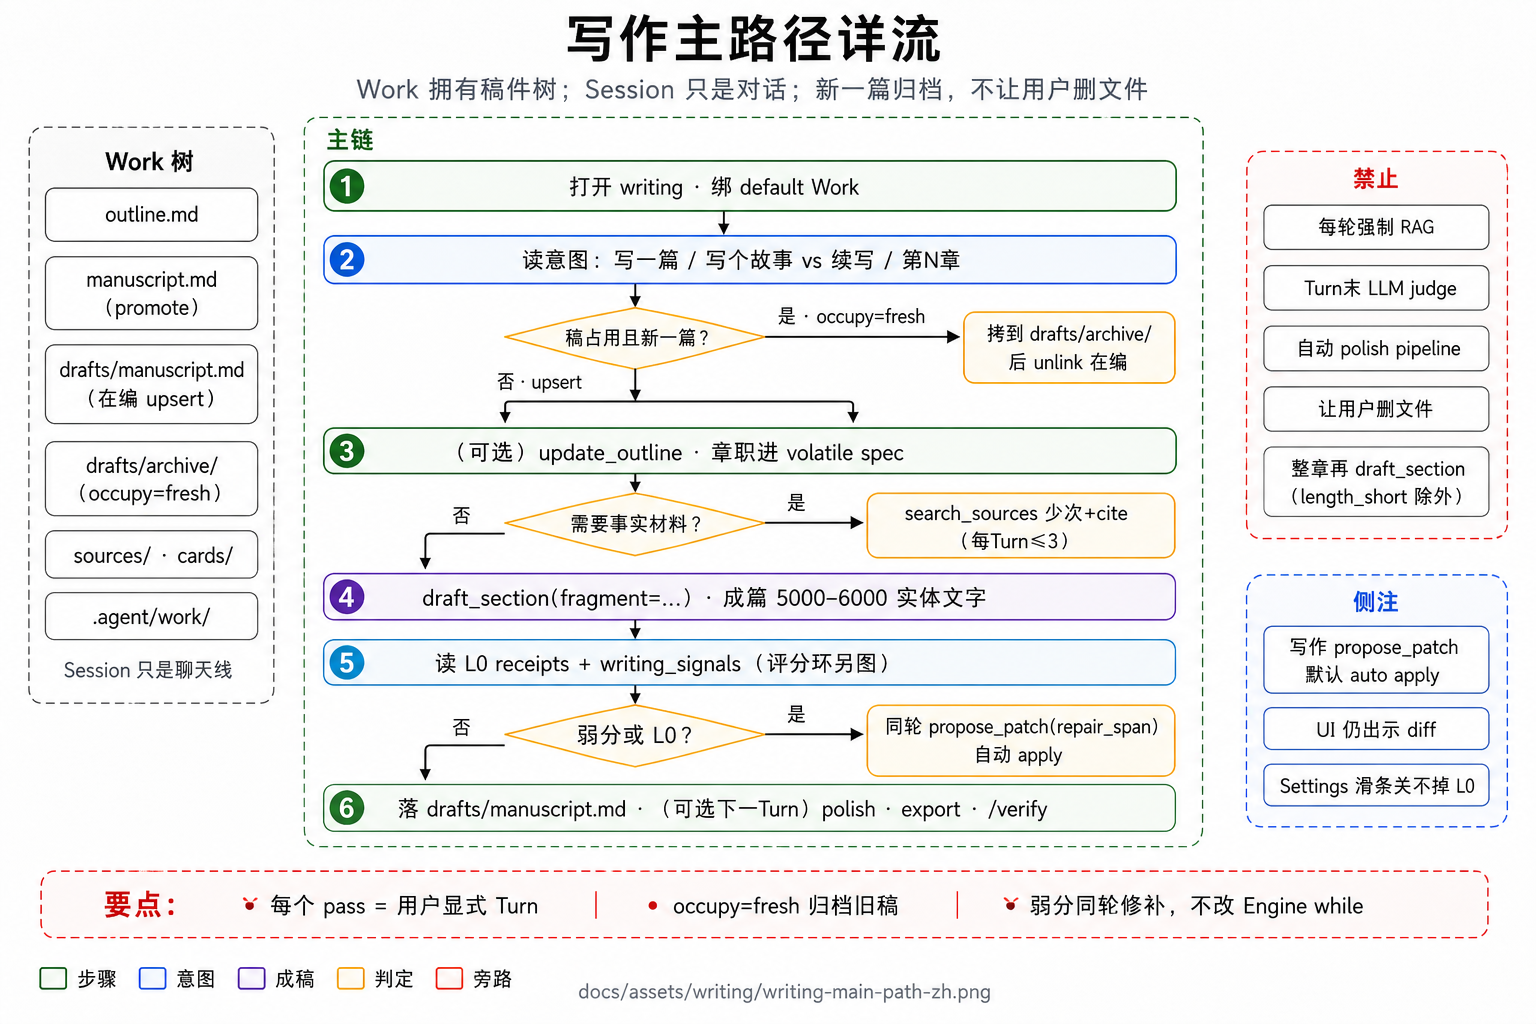
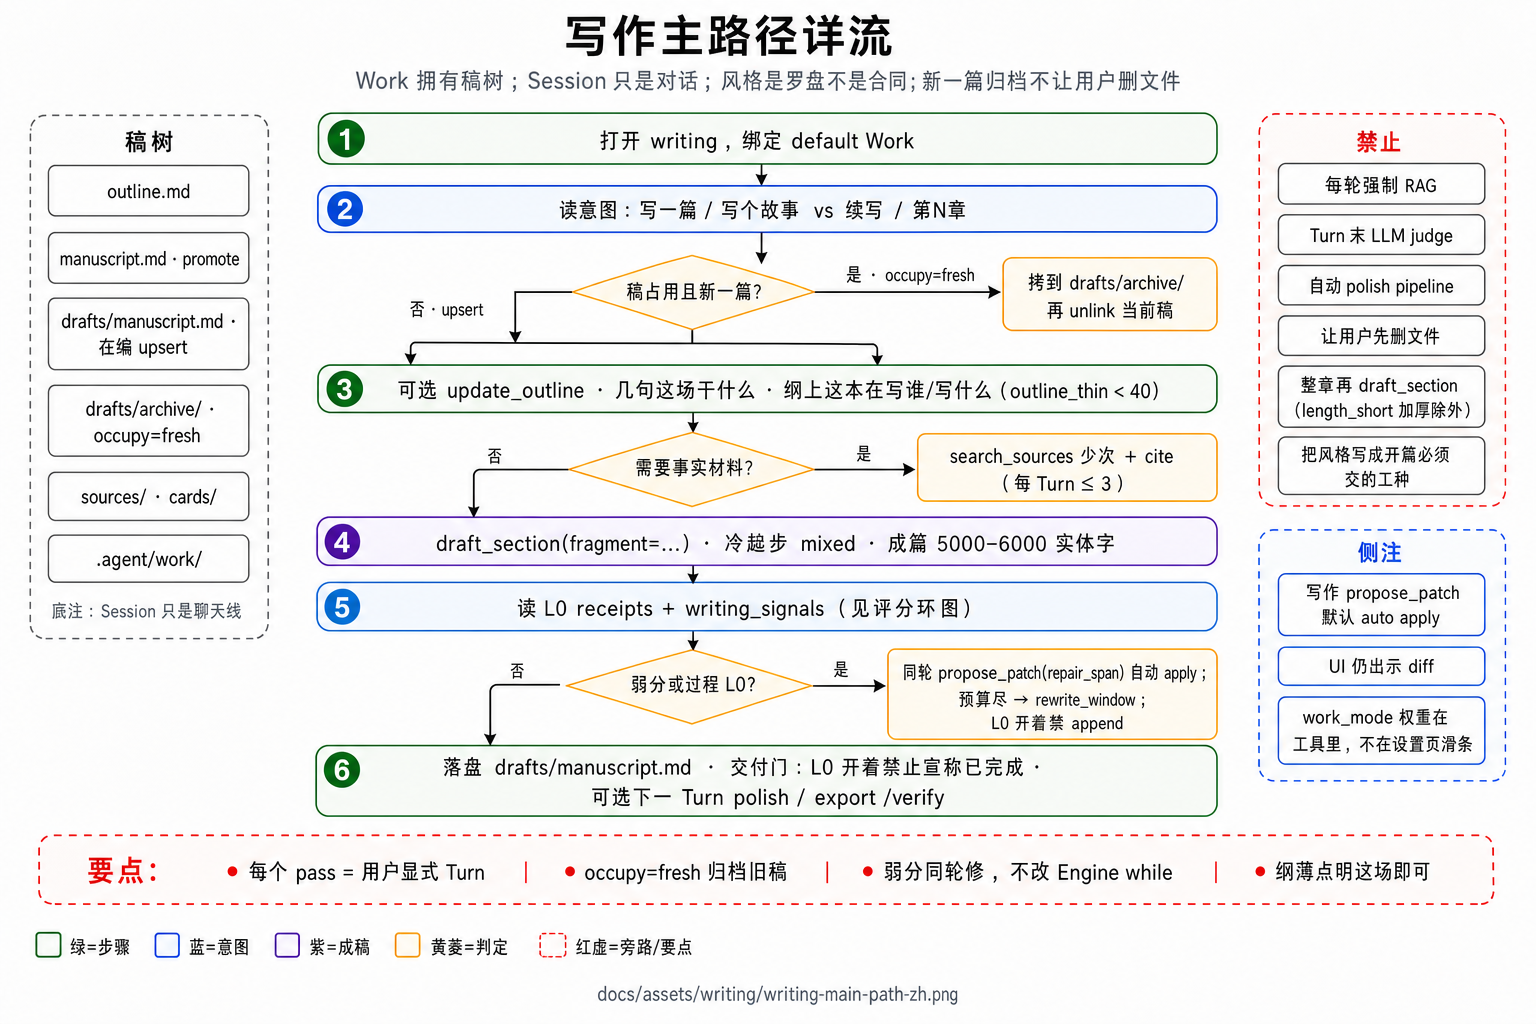
Refresh writing-harness docs and redraw the main-path and signals-loop diagrams.

Changed region(s): [[0.0, 0.0, 1.0, 1.0], [0.2812, 0.2812, 0.3125, 0.3125], [0.0, 0.1875, 0.0312, 0.2188]]

diff --git a/docs/tour/index.html b/docs/tour/index.html
@@ -1477,8 +1477,8 @@
             <li>
               <span class="n">1</span>
               <div>
-                <p class="what"><code>writing</code>（默认）：大纲、起草、<code>occupy=fresh</code> 归档、同轮 <code>writing_signals</code> 修补、按需 <code>search_sources</code></p>
-                <p class="why">步数上限约 40。默认排除情报语料目录。成篇默认 5000–6000 实体文字。质量杠杆是稳定前缀、少次有 cite 的检索、以及焊在工具返回值里的过程门；不是资料体积，也不是 Turn 末 LLM 裁判。每个 pass = 用户显式 Turn，平台不自动串 polish pipeline。</p>
+                <p class="what"><code>writing</code>（默认）：薄纲、起草、<code>occupy=fresh</code> 归档、同轮 <code>writing_signals</code> 修补（同岛停 · 预算尽换窗 · 交付门）、按需 <code>search_sources</code></p>
+                <p class="why">步数上限约 40。默认排除情报语料目录。成篇默认 5000–6000 实体文字。风格是罗盘不是合同。质量杠杆是稳定前缀、少次有 cite 的检索、以及焊在工具返回值里的过程门；不是资料体积，也不是 Turn 末 LLM 裁判。每个 pass = 用户显式 Turn，平台不自动串 polish pipeline。</p>
               </div>
             </li>
             <li>
@@ -2255,7 +2255,7 @@ payload[<span class="st">"audit"</span>] = finalize_audit_for_result(captured, h
       <section class="page" data-id="writing" data-group="RAG / 写作" data-title="写作工作台">
         <div class="card">
           <h2>写作：Work 拥有树；新一篇归档旧稿</h2>
-          <p class="lede">用户心智是一份稿。工程上 Work 拥有 <code>outline.md</code>、<code>drafts/manuscript.md</code>、<code>drafts/archive/</code>、<code>sources/</code> 与卡片；Session 只是对话线程。用户说「写一篇 / 写个故事」且在编稿已占用时，第一次 <code>draft_section</code> 带 <code>occupy=fresh</code>：把旧稿拷到归档，再只写这篇。不要让用户先删文件。每个 pass = 用户显式 Turn；平台不自动串成润色流水线。</p>
+          <p class="lede">用户心智是一份稿。工程上 Work 拥有 <code>outline.md</code>、<code>drafts/manuscript.md</code>、<code>drafts/archive/</code>、<code>sources/</code> 与卡片；Session 只是对话线程。用户说「写一篇 / 写个故事」且在编稿已占用时，第一次 <code>draft_section</code> 带 <code>occupy=fresh</code>：把旧稿拷到归档，再只写这篇。不要让用户先删文件。风格 / 三要素是这场戏的倾向，不是开篇必须交的工种。每个 pass = 用户显式 Turn；平台不自动串成润色流水线。</p>
           <ol class="steps">
             <li>
               <span class="n">1</span>
@@ -2267,26 +2267,26 @@ payload[<span class="st">"audit"</span>] = finalize_audit_for_result(captured, h
             <li>
               <span class="n">2</span>
               <div>
-                <p class="what">（可选）<code>update_outline</code>；立人设与文风靠 pin 在 Work 上的卡片</p>
-                <p class="why">通常不检索。卡片进入 <code>writing_cards</code>，不进资料向量面。章纲过薄（章正文 &lt; 200 实体文字，且用户未要目录）时带 <code>outline_thin</code>。</p>
+                <p class="what">（可选）<code>update_outline</code>：几句这场干什么；纲上写清这本在写谁、写什么</p>
+                <p class="why">通常不检索。卡片进入 <code>writing_cards</code>，不进资料向量面。章纲过薄（章正文 &lt; 40 实体文字，且用户未要目录）时带 <code>outline_thin</code>。开篇三章备忘按几句算完整。</p>
               </div>
             </li>
             <li>
               <span class="n">3</span>
               <div>
-                <p class="what">成稿：按需 <code>search_sources</code>（有 cite、每 Turn 最多 3 次）再 <code>draft_section(fragment=…)</code></p>
-                <p class="why">成篇默认 5000–6000 实体文字。返回值带 L0 receipts 与 L1 <code>writing_signals</code>。禁止每轮强制 RAG、禁止 Turn 末自动 judge。</p>
+                <p class="what">成稿：按需 <code>search_sources</code>（有 cite、每 Turn 最多 3 次）再 <code>draft_section(fragment=…)</code>；冷起步 <code>mixed</code></p>
+                <p class="why">成篇默认 5000–6000 实体文字。返回值带 L0 receipts 与 L1 <code>writing_signals</code>。禁止每轮强制 RAG、禁止 Turn 末自动 judge。过程 L0 未清不得 <code>mode=append</code>，也不得宣称已完成。</p>
               </div>
             </li>
             <li>
               <span class="n">4</span>
               <div>
                 <p class="what">弱分或 L0：同轮 <code>propose_patch(repair_span)</code>；写作场景默认自动 apply</p>
-                <p class="why">只换最弱窗里的 <code>old_text</code>，不整章再 <code>draft_section</code>（<code>length_short</code> 加厚除外）。UI 仍出示 diff。polish / 导出 / verify 仍是用户下一次 Turn。</p>
+                <p class="why">只换最弱窗里的 <code>old_text</code>（可带 <code>neighbor</code>）。同岛停；每 key 5 次 / 章合计 8；碎拍尽则 <code>rewrite_window</code>（每章 2 次）。不整章再 <code>draft_section</code>（<code>length_short</code> 加厚除外）。UI 仍出示 diff。polish / 导出 / verify 仍是用户下一次 Turn。</p>
               </div>
             </li>
           </ol>
-          <p class="figure-lead">下图中主链：意图 → 占用判定 → 成稿 → 同轮修补。检索是按需旁路。评分环见下一页。</p>
+          <p class="figure-lead">下图中主链：意图 → 占用判定 → 薄纲 → 成稿 → 同轮修补 / 交付门。检索是按需旁路。评分环见下一页。</p>
         </div>
                                         <figure class="figure">
           <div class="diagram-body diagram-svg">
@@ -2299,31 +2299,31 @@ payload[<span class="st">"audit"</span>] = finalize_audit_for_result(captured, h
       <section class="page" data-id="writing-signals" data-group="RAG / 写作" data-title="写作评分环">
         <div class="card">
           <h2>评分焊在工具返回值，不改 Engine while</h2>
-          <p class="lede">L0 是过程门（电报连环、看见立刻明白、开篇机构名、身世提要、篇幅不足），Settings 滑条关不掉。L1 是到类原型 <code>sig.v1</code> 的距离：维度加权 <code>composite</code> 加上惩罚/奖励得到 <code>net_signal</code>。账户「写作风格」滑条只缩放该类 L1 行；维度权重平台钉死。覆盖顺序：Work &gt; 账户 &gt; 平台。</p>
+          <p class="lede">L0 是过程门（电报连环、看见立刻明白、开篇机构名、身世提要、篇幅不足），设置页没有滑条可关。L1 是到类原型 <code>sig.v1</code> 的距离：维度加权 <code>composite</code> 加上惩罚/奖励得到 <code>net_signal</code>。权重按 <code>work_mode</code>（经典文学 / 连载网文）钉在工具里，<strong>不在设置页</strong>。</p>
           <ol class="steps">
             <li>
               <span class="n">1</span>
               <div>
                 <p class="what">成稿文本切窗：可见 ≥ 800 实体文字则目标约 480，取最弱窗</p>
-                <p class="why"><code>fragment</code> 为 plot_progress / worldview_texture / climax_beat / battle_action / dialogue_dyad / mixed。错类只在申报≠mixed、申报≠检出、且对齐申报 &lt; 0.60 时记 mismatch。</p>
+                <p class="why"><code>fragment</code> 为 plot_progress / worldview_texture / climax_beat / battle_action / dialogue_dyad / mixed。冷起步默认 mixed。错类只在申报≠mixed、申报≠检出、且对齐申报 &lt; 0.60 时记 mismatch。</p>
               </div>
             </li>
             <li>
               <span class="n">2</span>
               <div>
                 <p class="what">L0 receipts 与 L1 <code>writing_signals</code> 一并回灌 <code>tool_result</code></p>
-                <p class="why">L0 对白还认拆句（「…。」他说，「…。」）、升格（「A，就是 B」）、对比收束（「是 A，不是 B」）。对白里因为/可是可以留。平台 <code>staccato_uniform</code> −0.18。</p>
+                <p class="why">L0 对白还认拆句（「…。」他说，「…。」）、升格（「A，就是 B」）、对比收束（「是 A，不是 B」）。对白里因为/可是可以留。空转问答收成一两句或动手，不要改成旁白。平台 <code>staccato_uniform</code> −0.18。</p>
               </div>
             </li>
             <li>
               <span class="n">3</span>
               <div>
                 <p class="what">弱 <code>net_signal</code>（&lt; 0.50）或 L0 命中 → 本 Turn <code>propose_patch</code></p>
-                <p class="why"><code>repair_span.old_text</code> 上限约 360 字。禁止整章重交，除非 <code>length_short</code>。金标是鲁迅 / 郁达夫公版节选，学拍不搬核。Ops <code>/ops/&lt;密钥&gt;/writing</code> 只打分，不进产品 Turn。</p>
+                <p class="why"><code>repair_span</code> 跟最弱窗走，可带 <code>neighbor</code>。同岛（重叠 ≥ 12 字）停；每 key 5 次 / 章合计 8；碎拍尽则 <code>rewrite_window</code>（每章 2）。过程 L0 未清拒绝 append；<code>net_signal</code> ≥ 0 且无过程 L0 则 <code>patch_unnecessary</code>。hygiene 拒绝对白改旁白。金标是鲁迅 / 郁达夫公版节选，学拍不搬核。Ops <code>/ops/&lt;密钥&gt;/writing</code> 只打分，不进产品 Turn。</p>
               </div>
             </li>
           </ol>
-          <p class="figure-lead">下图中主链：切窗 → L0 / L1 → 是否同轮修补。左右是滑条范围与禁止项，不是第二套主链。</p>
+          <p class="figure-lead">下图中主链：切窗 → L0 / L1 → 同轮修补判定（同岛停 · 预算尽换窗）。左右是入口与禁止项，不是第二套主链。</p>
         </div>
                                         <figure class="figure">
           <div class="diagram-body diagram-svg">
@@ -3033,7 +3033,7 @@ ValueError: Unrecognized QDP line: read serr 1 2</pre>
         rag: "search_sources hybrid",
         "rag-deep-dive": "图编号逐步对照代码",
         index: "INDEX 13 · 450 / 64",
-        writing: "Work 树与 occupy=fresh",
+        writing: "Work 树 · 薄纲 · occupy=fresh",
         "writing-signals": "L0 过程门 · L1 类原型",
         "ops-bench": "L1 agent-path，不是 CI",
         "ops-eval-why": "官方题面、可见范围、命中",

diff --git a/docs/topics/workbench.md b/docs/topics/workbench.md
@@ -12,8 +12,8 @@ Ops 控制台的 `suite=ci` 只是触发 `scripts/ci_proof.sh`，不是 retrieva
 
 ## 图
 
-1. [写作主路径](../assets/writing/writing-main-path-zh.png) — Work 树 · 写一篇归档 · 同轮修补  
-1b. [写作评分环](../assets/writing/writing-signals-loop-zh.png) — L0 过程门 · L1 类原型 · `repair_span`
+1. [写作主路径](../assets/writing/writing-main-path-zh.png) — Work 树 · 写一篇归档 · 薄纲 · 同轮修补 · 交付门  
+1b. [写作评分环](../assets/writing/writing-signals-loop-zh.png) — L0 过程门 · 同岛停 · 预算尽换窗 · 禁止 Turn 末 judge
 2. [Ops Bench 原理](../assets/ops/ops-bench-principle-zh.png) — L1 agent-path · 套件 · 隔离  
 3. [评测原理](ops-eval-principles.md) — 官方题面、可见范围、命中定义、审阅偏差  
 4. [实例走查](ops-eval-walkthrough.md) — 本地题目原文与命中判定  
@@ -53,9 +53,11 @@ work_root/
 ```text
 意图（新一篇 vs 续写）
   → 新一篇且稿占用：归档后从 ch1 起
-  →（可选）update_outline
-  → 成稿：按需 search_sources（少次）+ draft_section(fragment=…)
+  →（可选）update_outline · 几句这场干什么（风格是罗盘，不是开篇交卷表）
+  → 成稿：按需 search_sources（少次）+ draft_section(fragment=…；冷起步 mixed)
   → 同轮读 writing_signals / L0 receipts；弱分只 propose_patch(repair_span)
+  → 碎拍预算尽 → draft_section mode=rewrite_window 一次换整窗
+  → 过程 L0 开着：禁止 append、禁止对用户宣称「已完成」
   → 改稿：diff-first · 通常 0 搜
   →（可选，下一 Turn）polish · export · /verify
 ```
@@ -64,8 +66,10 @@ work_root/
 
 - **每个 pass = 用户显式 Turn**；平台不自动串成 polish pipeline。  
 - 质量杠杆：稳定前缀 + 少次有 cite 的检索 + **同轮**过程门；**不是**资料越多越好，也不是 Turn 末再找一个 LLM 裁判。  
+- 风格 / 三要素 / `work_mode` 是这场戏的倾向，不是合同：不锁开篇必须交什么工种。纲上写清**这本在写谁、这本在写什么**；选定另一路就是另一本书。  
+- 章纲几句点明这场干什么即可。`outline_thin` 门槛 **40** 实体文字（用户未要目录时）；开篇三章备忘同样按几句算完整。  
 - 成篇默认 **5000–6000** 实体文字（汉字/字母/数字/标点，不含空白）。  
-- **禁止默认**：每轮强制 RAG、Turn 末 judge、自动串联多模型裁判、整章再 `draft_section`（`length_short` 加厚除外）。
+- **禁止默认**：每轮强制 RAG、Turn 末 judge、自动串联多模型裁判、整章再 `draft_section`（`length_short` 加厚除外）、过程 L0 未清就 `mode=append`。
 
 ### 1.2 评分与同轮修补（L0 / L1）
 
@@ -73,12 +77,21 @@ work_root/
 
 | 层 | 是什么 | 谁关 |
 |----|--------|------|
-| **L0 receipts** | `staccato_uniform`、`hinge_dense`、`opening_institution`、`lore_dump`、`length_short`… | 过程门 |
+| **L0 receipts** | `staccato_uniform`、`hinge_dense`、`opening_institution`、`lore_dump`、`length_short`… | 过程门（设置页没有滑条可关） |
 | **L1 `writing_signals`** | 维度加权 `composite` + 惩罚/奖励 → `net_signal`；`exemplar_alignment` 是到类原型 `sig.v1` 的距离（节奏/质地，不是搜情节） | 平台按 `work_mode`（`literary` / `web_serial`）钉死；经 `writing_rubric` / `writing_signals` 暴露，**不在设置页** |
 
-`fragment`：`plot_progress` \| `worldview_texture` \| `climax_beat` \| `battle_action` \| `dialogue_dyad` \| `mixed`。弱 `net_signal` 或 L0 命中 → **本 Turn** `propose_patch` 只换 `repair_span.old_text`。长章按约 480 实体文字切窗，取最弱窗。平台金标是鲁迅 / 郁达夫公版节选，学拍不搬核。
+`fragment`：`plot_progress` \| `worldview_texture` \| `climax_beat` \| `battle_action` \| `dialogue_dyad` \| `mixed`（冷起步默认 `mixed`）。弱 `net_signal`（&lt; 0.50）或 L0 命中 → **本 Turn** `propose_patch` 只换 `repair_span.old_text`（可带 `neighbor` 邻拍）。长章可见 ≥ 800 则按约 480 实体文字切窗，取最弱窗；窗可扩到约 672。定位拍约 360。平台金标是鲁迅 / 郁达夫公版节选，学拍不搬核。
 
-L0 对白门还认：电报连环、「…。」他说，「…。」拆句、「A，就是 B」升格、「是 A，不是 B」收束。对白里因为/可是可以留。
+同轮停条件（仍不改 Engine while）：
+
+- **同岛停**：可见核与上一拍重叠 ≥ 12 字则不再空转同一 island。  
+- **过程 L0 未清**（碎拍 / 金句 / 开篇机构 / 身世提要，不含单纯 `length_short`）→ 拒绝 `mode=append`。  
+- **预算**：每 `penalty_key` 本 Turn 至多 **5** 次生效 patch，本章合计 **8**；碎拍预算尽 → `draft_section mode=rewrite_window` 一次换整窗（每章至多 **2**）。  
+- **`patch_unnecessary`**：`net_signal` ≥ 0 且无过程 L0 后不要继续 chip patch。  
+- **hygiene**：把「」对白改成旁白的补丁直接拒。空转问答应收成一两句或动手，不是「告诉他」。  
+- **交付门**：manifest 过程 L0 仍开时，终稿不得宣称「已完成 / 定稿」。
+
+L0 对白门还认：电报连环、「…。」他说，「…。」拆句、「A，就是 B」升格、「是 A，不是 B」收束。对白里因为/可是可以留。孤立短打 / 先紧后松不算空转槽。
 
 ### 1.3 场景与工具（写作）
 

diff --git a/docs/core/tools-and-context.md b/docs/core/tools-and-context.md
@@ -35,7 +35,7 @@
 - RAG **只**以 `search_sources` 的 `tool_result` 回灌，禁止每轮预注入向量包。  
 - 多 agent **只**经 `delegate` 子 Run，摘要回灌。  
 - `read_file` 先过已读登记：重复覆盖区间可 skipped；每 Turn 次数有硬帽（默认 16）。
-- 写作：`draft_section` / `update_outline` 的返回值带 `visible_chars`（实体文字，不含空白）。用户点名 N 字且不足约定的 85% 时带 `length_short`；成篇默认 5000–6000。章纲过薄（章正文 &lt; 200 实体文字，且用户未要目录）时带 `outline_thin`。`draft_section` 另带 L0 receipts 与 L1 `writing_signals`（`net_signal` / `repair_span`）。弱分同轮 `propose_patch`，不改磁盘公式、不加循环节点。无关旧稿走 `occupy=fresh` 归档，不让用户先删文件。
+- 写作：`draft_section` / `update_outline` 的返回值带 `visible_chars`（实体文字，不含空白）。用户点名 N 字且不足约定的 85% 时带 `length_short`；成篇默认 5000–6000。章纲过薄（章正文 &lt; 40 实体文字，且用户未要目录）时带 `outline_thin`。`draft_section` 另带 L0 receipts 与 L1 `writing_signals`（`net_signal` / `repair_span`，可带 `neighbor`）。弱分同轮 `propose_patch`；同岛停、每 key 5 次 / 章合计 8、碎拍尽则 `rewrite_window`；过程 L0 未清拒绝 `append`，也不得宣称已完成。hygiene 拒绝对白改旁白。不改磁盘公式、不加循环节点。无关旧稿走 `occupy=fresh` 归档，不让用户先删文件。风格是罗盘不是合同；权重按 `work_mode` 钉在工具里，不在设置页滑条。
 
 ## 2. Coding（agent 场景）一次用户提问里实际发生什么
 

diff --git a/docs/README.md b/docs/README.md
@@ -82,9 +82,9 @@
 | [图 · 店内召回](assets/rag/search-sources-flow-zh.png) | Chunk（HNSW∥FTS）与 Doc（centroid）并行，RRF / 精排 / cover / fallback |
 | [图 · 建库](assets/rag/index-sync-zh.png) | Turn 外：stamp → 切块 450/64 → embed → 三表 → 增量维护或全量重建 HNSW |
 | [图 · 端到端主链详流](assets/rag/rag-end-to-end-zh.png) | 主链详流：Index → HNSW/GIN → search_sources → RRF/rerank → cover/tier → tool_result |
-| [工作台 · 写作](topics/workbench.md) | 单部作品；写一篇归档旧稿；成稿后同轮修补 |
-| [图 · 写作主路径](assets/writing/writing-main-path-zh.png) | 新一篇 vs 续写 → `draft_section` → 同轮 `repair_span` |
-| [图 · 写作评分环](assets/writing/writing-signals-loop-zh.png) | L0 过程门 · L1 类原型 · 禁止 Turn 末 judge |
+| [工作台 · 写作](topics/workbench.md) | 单部作品；薄纲；写一篇归档旧稿；成稿后同轮修补与交付门 |
+| [图 · 写作主路径](assets/writing/writing-main-path-zh.png) | 新一篇 vs 续写 → 薄纲 → `draft_section` → 同轮 `repair_span` / 交付门 |
+| [图 · 写作评分环](assets/writing/writing-signals-loop-zh.png) | L0 过程门 · 同岛停 · 预算尽换窗 · 禁止 Turn 末 judge |
 
 ---
 

diff --git a/docs/core/architecture.md b/docs/core/architecture.md
@@ -250,7 +250,7 @@ pending → running ⇄ waiting_approval
 
 | `scenario_id` | 定位 |
 |---------------|------|
-| `writing` | 写作：大纲/草稿/`occupy=fresh` 归档、`writing_signals` 同轮修补、按需资料检索 |
+| `writing` | 写作：薄纲 + 草稿/`occupy=fresh` 归档、`writing_signals` 同轮修补（同岛停 · 预算尽换窗 · 交付门）、按需资料检索 |
 | `agent` | 编码：打开查找/改文件/跑测试全套工具。找定义、看波及、改完再验写进这些工具的返回值；官方评测题还会把 pytest 改去该题 Docker 镜像里跑。**没有**资料检索工具，不以检索资料来找代码位置 |
 | `intel` | 情报向资料与提示 |
 | `collab` | 多 agent 协作（目标态） |
